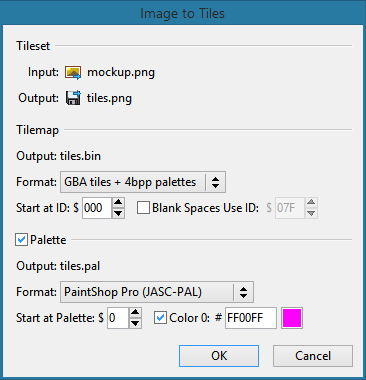
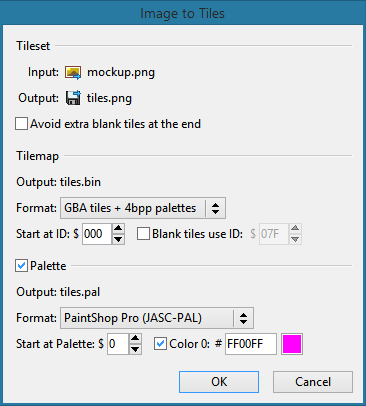
"Blank Spaces Use ID" -> "Blank Tiles Use ID"

Changed region(s): [[0.0, 0.0289, 0.9918, 1.0], [0.541, 0.0, 0.571, 0.0289]]

diff --git a/res/help.html b/res/help.html
@@ -78,7 +78,7 @@ R"(<html>
 <ul>
 <li><b>Format:</b> Create the tilemap in any supported format, not just a sequence of plain tile IDs.</li>
 <li><b>Start at ID:</b> Start at a tile ID besides $0:00, if you plan to load the tileset somewhere else.</li>
-<li><b>Blank Spaces Use ID:</b> Use a specified ID for solid white tiles instead of including that in the tileset itself. This defaults to $0:7F, the space character in Pokémon games.</li>
+<li><b>Blank tiles use ID:</b> Use a specified ID for blank tiles (solid color 0) instead of including that in the tileset itself. This defaults to $0:7F, the space character in Pokémon games.</li>
 </ul>
 </body>
 </html>)"

diff --git a/src/option-dialogs.cpp b/src/option-dialogs.cpp
@@ -757,8 +757,8 @@ int Add_Tileset_Dialog::refresh_content(int ww, int dy) {
 
 Image_To_Tiles_Dialog::Image_To_Tiles_Dialog(const char *t) : Option_Dialog(360, t), _tileset_heading(NULL), _tilemap_heading(NULL),
 	_tileset_spacer(NULL), _tilemap_spacer(NULL), _palette_spacer(NULL), _input_heading(NULL), _output_heading(NULL), _image(NULL),
-	_tileset(NULL), _image_name(NULL), _tileset_name(NULL), _no_extra_tiles(NULL), _tilemap_name(NULL), _format(NULL), _start_id(NULL),
-	_use_space(NULL), _space_id(NULL), _palette(NULL), _palette_name(NULL), _palette_format(NULL), _start_index_label(NULL),
+	_tileset(NULL), _image_name(NULL), _tileset_name(NULL), _no_extra_blank_tiles(NULL), _tilemap_name(NULL), _format(NULL),
+	_start_id(NULL), _use_blank(NULL), _blank_id(NULL), _palette(NULL), _palette_name(NULL), _palette_format(NULL), _start_index_label(NULL),
 	_start_index(NULL), _color_zero(NULL), _color_zero_rgb(NULL), _color_zero_swatch(NULL), _image_chooser(NULL), _tileset_chooser(NULL),
 	_image_filename(), _tileset_filename(), _tilemap_filename(), _attrmap_filename(), _palette_filename(), _tilepal_filename(),
 	_prepared_image(false), _picked_palette(false) {}
@@ -775,12 +775,12 @@ Image_To_Tiles_Dialog::~Image_To_Tiles_Dialog() {
 	delete _tileset;
 	delete _image_name;
 	delete _tileset_name;
-	delete _no_extra_tiles;
+	delete _no_extra_blank_tiles;
 	delete _tilemap_name;
 	delete _format;
 	delete _start_id;
-	delete _use_space;
-	delete _space_id;
+	delete _use_blank;
+	delete _blank_id;
 	delete _palette;
 	delete _palette_name;
 	delete _palette_format;
@@ -945,12 +945,12 @@ void Image_To_Tiles_Dialog::initialize_content() {
 	_tileset = new Toolbar_Button(0, 0, 0, 0);
 	_image_name = new Label_Button(0, 0, 0, 0, NO_FILE_SELECTED_LABEL);
 	_tileset_name = new Label_Button(0, 0, 0, 0, NO_FILE_SELECTED_LABEL);
-	_no_extra_tiles = new OS_Check_Button(0, 0, 0, 0, "Avoid extra blank tiles at the end");
+	_no_extra_blank_tiles = new OS_Check_Button(0, 0, 0, 0, "Avoid extra blank tiles at the end");
 	_tilemap_name = new Label(0, 0, 0, 0, "Output: " NO_FILES_DETERMINED_LABEL);
 	_format = new Dropdown(0, 0, 0, 0, "Format:");
 	_start_id = new Default_Hex_Spinner(0, 0, 0, 0, "Start at ID: $");
-	_use_space = new OS_Check_Button(0, 0, 0, 0, "Blank Spaces Use ID: ");
-	_space_id = new Default_Hex_Spinner(0, 0, 0, 0, "$");
+	_use_blank = new OS_Check_Button(0, 0, 0, 0, "Blank tiles use ID: ");
+	_blank_id = new Default_Hex_Spinner(0, 0, 0, 0, "$");
 	_palette = new OS_Check_Button(0, 0, 0, 0, "Palette");
 	_palette_name = new Label(0, 0, 0, 0, "Output: " NO_FILES_DETERMINED_LABEL);
 	_palette_format = new Dropdown(0, 0, 0, 0, "Format:");
@@ -992,10 +992,10 @@ void Image_To_Tiles_Dialog::initialize_content() {
 	_start_id->format("%03X");
 	_start_id->range(0x000, MAX_NUM_TILES-1);
 	_start_id->default_value(0x000);
-	_use_space->callback((Fl_Callback *)use_space_cb, this);
-	_space_id->format("%03X");
-	_space_id->range(0x000, MAX_NUM_TILES-1);
-	_space_id->default_value(0x07F);
+	_use_blank->callback((Fl_Callback *)use_blank_cb, this);
+	_blank_id->format("%03X");
+	_blank_id->range(0x000, MAX_NUM_TILES-1);
+	_blank_id->default_value(0x07F);
 	_start_index->format("%X");
 	_start_index->range(0x0, 0xFF);
 	_start_index->default_value(0);
@@ -1036,7 +1036,7 @@ int Image_To_Tiles_Dialog::refresh_content(int ww, int dy) {
 	dy += wgt_h + wgt_m;
 
 	wgt_off = win_m;
-	_no_extra_tiles->resize(wgt_off, dy, ww, wgt_h);
+	_no_extra_blank_tiles->resize(wgt_off, dy, ww, wgt_h);
 	dy += wgt_h + wgt_m + grp_m;
 
 	wgt_w = text_width(_tilemap_heading->label(), 4);
@@ -1056,12 +1056,12 @@ int Image_To_Tiles_Dialog::refresh_content(int ww, int dy) {
 	wgt_w = std::max(text_width("AAA", 2), text_width("FFF", 2)) + wgt_h / 2 + 4;
 	wgt_off = win_m + text_width(_start_id->label(), 3);
 	_start_id->resize(wgt_off, dy, wgt_w, wgt_h);
-	wgt_w = text_width(_use_space->label(), 3) + _use_space->labelsize() + 4;
+	wgt_w = text_width(_use_blank->label(), 3) + _use_blank->labelsize() + 4;
 	wgt_off += _start_id->w() + win_m;
-	_use_space->resize(wgt_off, dy, wgt_w, wgt_h);
-	wgt_off += _use_space->w() + text_width(_space_id->label(), 1);
+	_use_blank->resize(wgt_off, dy, wgt_w, wgt_h);
+	wgt_off += _use_blank->w() + text_width(_blank_id->label(), 1);
 	wgt_w = std::max(text_width("AAA", 2), text_width("FFF", 2)) + wgt_h / 2 + 4;
-	_space_id->resize(wgt_off, dy, wgt_w, wgt_h);
+	_blank_id->resize(wgt_off, dy, wgt_w, wgt_h);
 	dy += wgt_h + wgt_m + grp_m;
 
 	wgt_w = _palette->labelsize() + 4 + text_width(_palette->label(), 3);
@@ -1107,7 +1107,7 @@ int Image_To_Tiles_Dialog::refresh_content(int ww, int dy) {
 
 	_palette->do_callback();
 	_color_zero->do_callback();
-	_use_space->do_callback();
+	_use_blank->do_callback();
 
 	return ch;
 }
@@ -1237,12 +1237,12 @@ void Image_To_Tiles_Dialog::color_zero_swatch_cb(Fl_Button *, Image_To_Tiles_Dia
 #endif
 }
 
-void Image_To_Tiles_Dialog::use_space_cb(OS_Check_Button *, Image_To_Tiles_Dialog *itd) {
-	if (itd->use_space()) {
-		itd->_space_id->activate();
+void Image_To_Tiles_Dialog::use_blank_cb(OS_Check_Button *, Image_To_Tiles_Dialog *itd) {
+	if (itd->use_blank()) {
+		itd->_blank_id->activate();
 	}
 	else {
-		itd->_space_id->deactivate();
+		itd->_blank_id->deactivate();
 	}
-	itd->_space_id->redraw();
+	itd->_blank_id->redraw();
 }

diff --git a/src/image-to-tiles.cpp b/src/image-to-tiles.cpp
@@ -28,22 +28,22 @@
 typedef std::set<Fl_Color> Color_Set;
 
 static bool build_tilemap(const Tile *tiles, size_t n, const std::vector<int> tile_palettes, Tilemap &tilemap,
-	std::vector<size_t> &tileset, Tilemap_Format fmt, uint16_t start_id, bool use_space, uint16_t space_id, Fl_Color space_color) {
+	std::vector<size_t> &tileset, Tilemap_Format fmt, uint16_t start_id, bool use_blank, uint16_t blank_id, Fl_Color blank_color) {
 	size_t mn = (size_t)format_tileset_size(fmt);
 	tilemap.resize(n, 1, Resize_Dialog::Hor_Align::LEFT, Resize_Dialog::Vert_Align::TOP);
 	tileset.reserve(mn);
 	size_t tc = 0;
 	for (size_t i = 0; i < n; i++) {
-		if (use_space && start_id + tileset.size() == space_id) {
+		if (use_blank && start_id + tileset.size() == blank_id) {
 			size_t j = 0;
 			for (; j < n; j++) {
-				if (is_blank_tile(tiles[j], space_color)) { break; }
+				if (is_blank_tile(tiles[j], blank_color)) { break; }
 			}
 			tileset.push_back(j);
 		}
 		const Tile &tile = tiles[i];
-		if (use_space && is_blank_tile(tile, space_color)) {
-			tilemap.tile(tc++, 0, new Tile_Tessera(0, 0, 0, 0, space_id, false, false, false, false, tile_palettes[i]));
+		if (use_blank && is_blank_tile(tile, blank_color)) {
+			tilemap.tile(tc++, 0, new Tile_Tessera(0, 0, 0, 0, blank_id, false, false, false, false, tile_palettes[i]));
 			continue;
 		}
 		size_t ti = 0, nt = tileset.size();
@@ -360,10 +360,10 @@ bool Main_Window::image_to_tiles() {
 	std::vector<size_t> tileset;
 
 	uint16_t start_id = _image_to_tiles_dialog->start_id();
-	bool use_space = _image_to_tiles_dialog->use_space();
-	uint16_t space_id = _image_to_tiles_dialog->space_id();
+	bool use_blank = _image_to_tiles_dialog->use_blank();
+	uint16_t blank_id = _image_to_tiles_dialog->blank_id();
 
-	if (!build_tilemap(tiles, n, tile_palettes, tilemap, tileset, fmt, start_id, use_space, space_id, color_zero)) {
+	if (!build_tilemap(tiles, n, tile_palettes, tilemap, tileset, fmt, start_id, use_blank, blank_id, color_zero)) {
 		delete [] tiles;
 		std::string msg = "Could not convert ";
 		msg = msg + image_basename + "!\n\nToo many unique tiles.";
@@ -409,7 +409,7 @@ bool Main_Window::image_to_tiles() {
 	// Create the tileset file
 
 	int tw = tileset_width();
-	if (_image_to_tiles_dialog->no_extra_tiles()) { tw = fit_width((int)tileset.size(), tw); }
+	if (_image_to_tiles_dialog->no_extra_blank_tiles()) { tw = fit_width((int)tileset.size(), tw); }
 	bool indexed = make_palette && pal_fmt == Palette_Format::INDEXED;
 	Fl_RGB_Image *timg = print_tileset(tiles, tileset, palettes, tile_palettes, max_colors, tw, color_zero, indexed, start_index);
 	Image::Result result = indexed ? Image::write_image(tileset_filename, timg, 0, &palettes, max_colors) :

diff --git a/src/option-dialogs.h b/src/option-dialogs.h
@@ -254,12 +254,12 @@ private:
 	Label * _input_heading, * _output_heading;
 	Toolbar_Button *_image, *_tileset;
 	Label_Button *_image_name, *_tileset_name;
-	OS_Check_Button *_no_extra_tiles;
+	OS_Check_Button *_no_extra_blank_tiles;
 	Label *_tilemap_name;
 	Dropdown *_format;
 	Default_Hex_Spinner *_start_id;
-	OS_Check_Button *_use_space;
-	Default_Hex_Spinner *_space_id;
+	OS_Check_Button *_use_blank;
+	Default_Hex_Spinner *_blank_id;
 	OS_Check_Button *_palette;
 	Label *_palette_name;
 	Dropdown *_palette_format;
@@ -281,7 +281,7 @@ public:
 	inline const char *attrmap_filename(void) const { return _attrmap_filename.c_str(); }
 	inline const char *palette_filename(void) const { return _palette_filename.c_str(); }
 	inline const char *tilepal_filename(void) const { return _tilepal_filename.c_str(); }
-	inline bool no_extra_tiles(void) const { return !!_no_extra_tiles->value(); }
+	inline bool no_extra_blank_tiles(void) const { return !!_no_extra_blank_tiles->value(); }
 	inline Tilemap_Format format(void) const { return (Tilemap_Format)_format->value(); }
 	inline void format(Tilemap_Format fmt) { initialize(); _format->value((int)fmt); }
 	inline bool palette(void) const { return !!_palette->value(); }
@@ -290,8 +290,8 @@ public:
 	Fl_Color fl_color_zero(void) const;
 	inline uint16_t start_id(void) const { return (uint16_t)_start_id->value(); }
 	inline void start_id(uint16_t n) { initialize(); _start_id->value(n); }
-	inline bool use_space(void) const { return !!_use_space->value(); }
-	inline uint16_t space_id(void) const { return (uint16_t)_space_id->value(); }
+	inline bool use_blank(void) const { return !!_use_blank->value(); }
+	inline uint16_t blank_id(void) const { return (uint16_t)_blank_id->value(); }
 	inline uint8_t start_index(void) const { return (uint8_t)_start_index->value(); }
 	inline void start_index(uint8_t n) { initialize(); _start_index->value(n); }
 	inline void reshow(const Fl_Widget *p) { _canceled = false; reveal(p); }
@@ -314,7 +314,7 @@ private:
 	static void color_zero_cb(OS_Check_Button *cb, Image_To_Tiles_Dialog *itd);
 	static void color_zero_rgb_cb(OS_Hex_Input *cb, Image_To_Tiles_Dialog *itd);
 	static void color_zero_swatch_cb(Fl_Button *w, Image_To_Tiles_Dialog *itd);
-	static void use_space_cb(OS_Check_Button *cb, Image_To_Tiles_Dialog *itd);
+	static void use_blank_cb(OS_Check_Button *cb, Image_To_Tiles_Dialog *itd);
 };
 
 #endif
